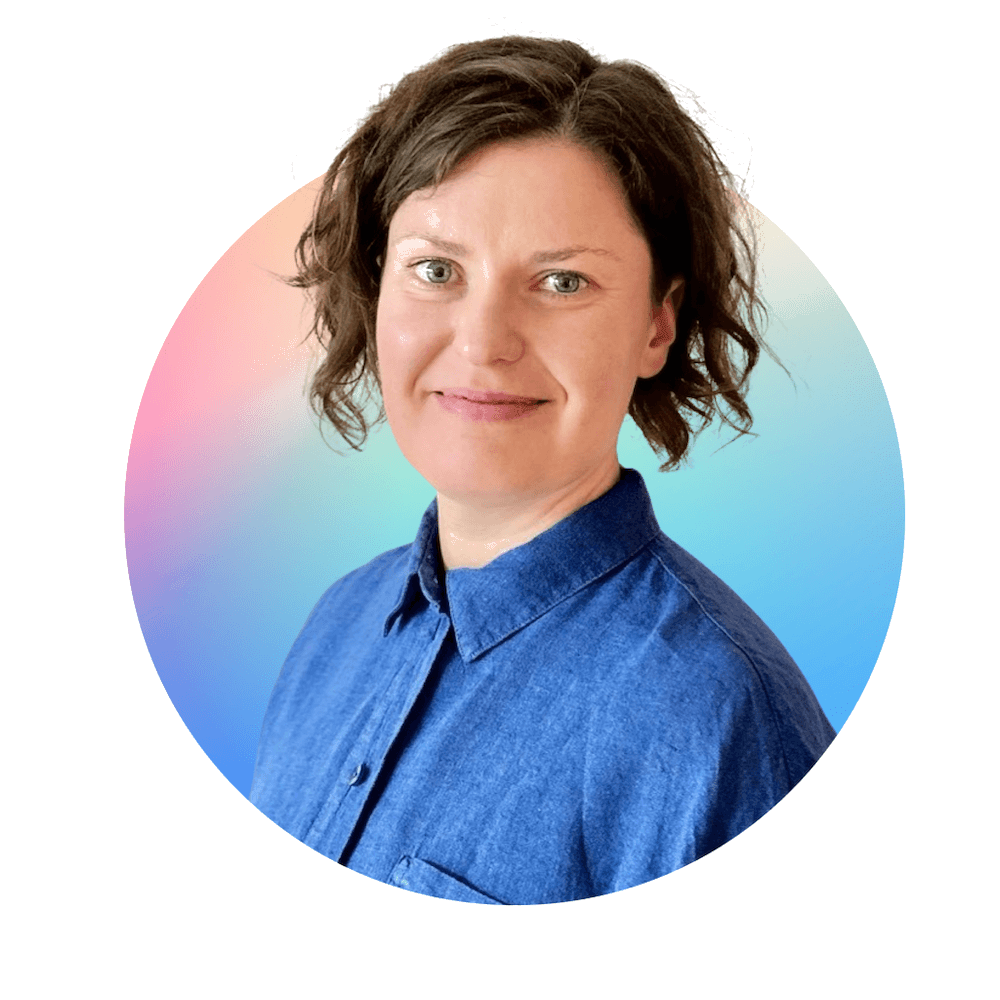
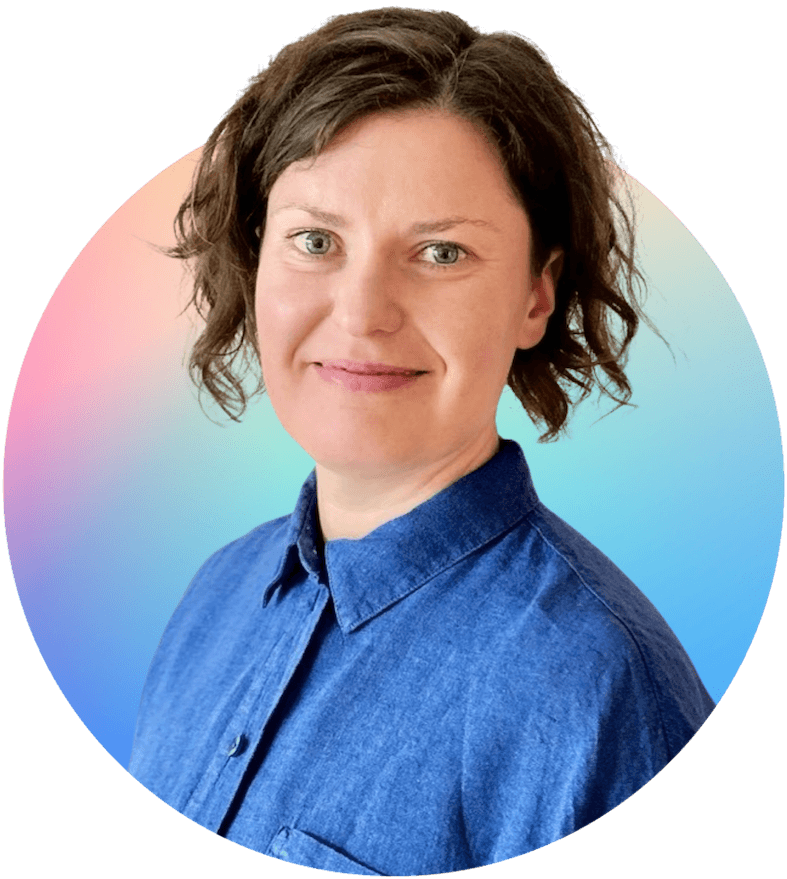
add new image, mobile media q

diff --git a/docs/public/css/style.css b/docs/public/css/style.css
@@ -147,8 +147,7 @@ nav a:focus-visible {
 
 .hero-photo img {
   width: 300px;
-  height: 300px;
-  object-fit: cover;
+  height: auto;
   display: block;
 }
 
@@ -460,7 +459,7 @@ blockquote cite {
   }
   .hero-photo img {
     width: 200px;
-    height: 200px;
+    height: auto;
     margin: 0 auto;
   }
 }

diff --git a/public/css/style.css b/public/css/style.css
@@ -147,8 +147,7 @@ nav a:focus-visible {
 
 .hero-photo img {
   width: 300px;
-  height: 300px;
-  object-fit: cover;
+  height: auto;
   display: block;
 }
 
@@ -460,7 +459,7 @@ blockquote cite {
   }
   .hero-photo img {
     width: 200px;
-    height: 200px;
+    height: auto;
     margin: 0 auto;
   }
 }
